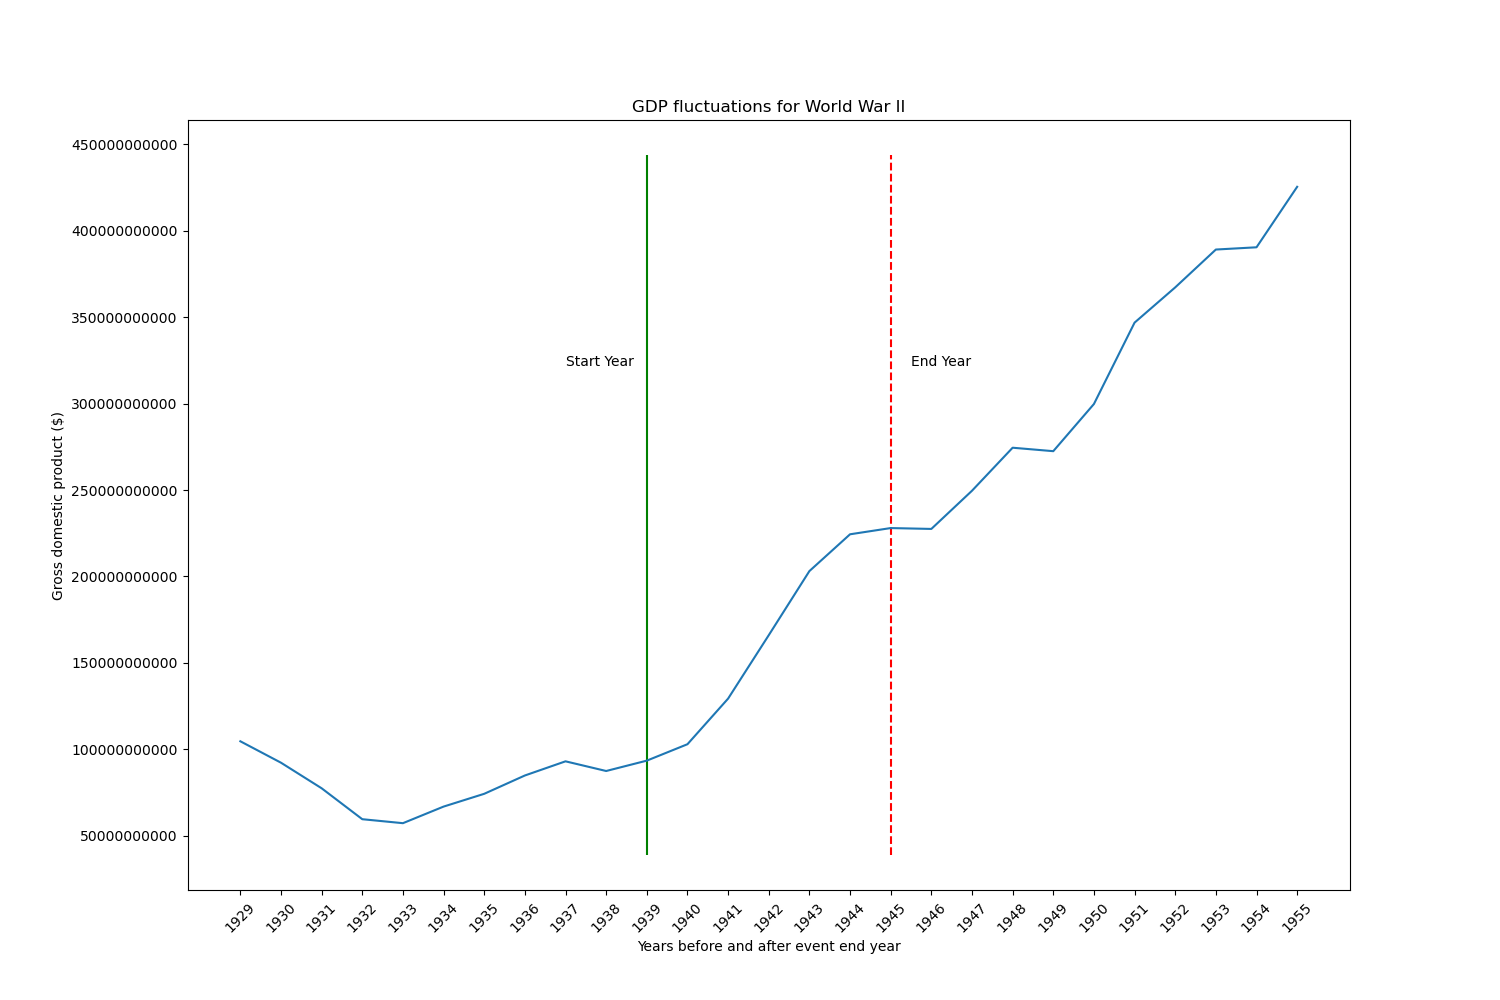
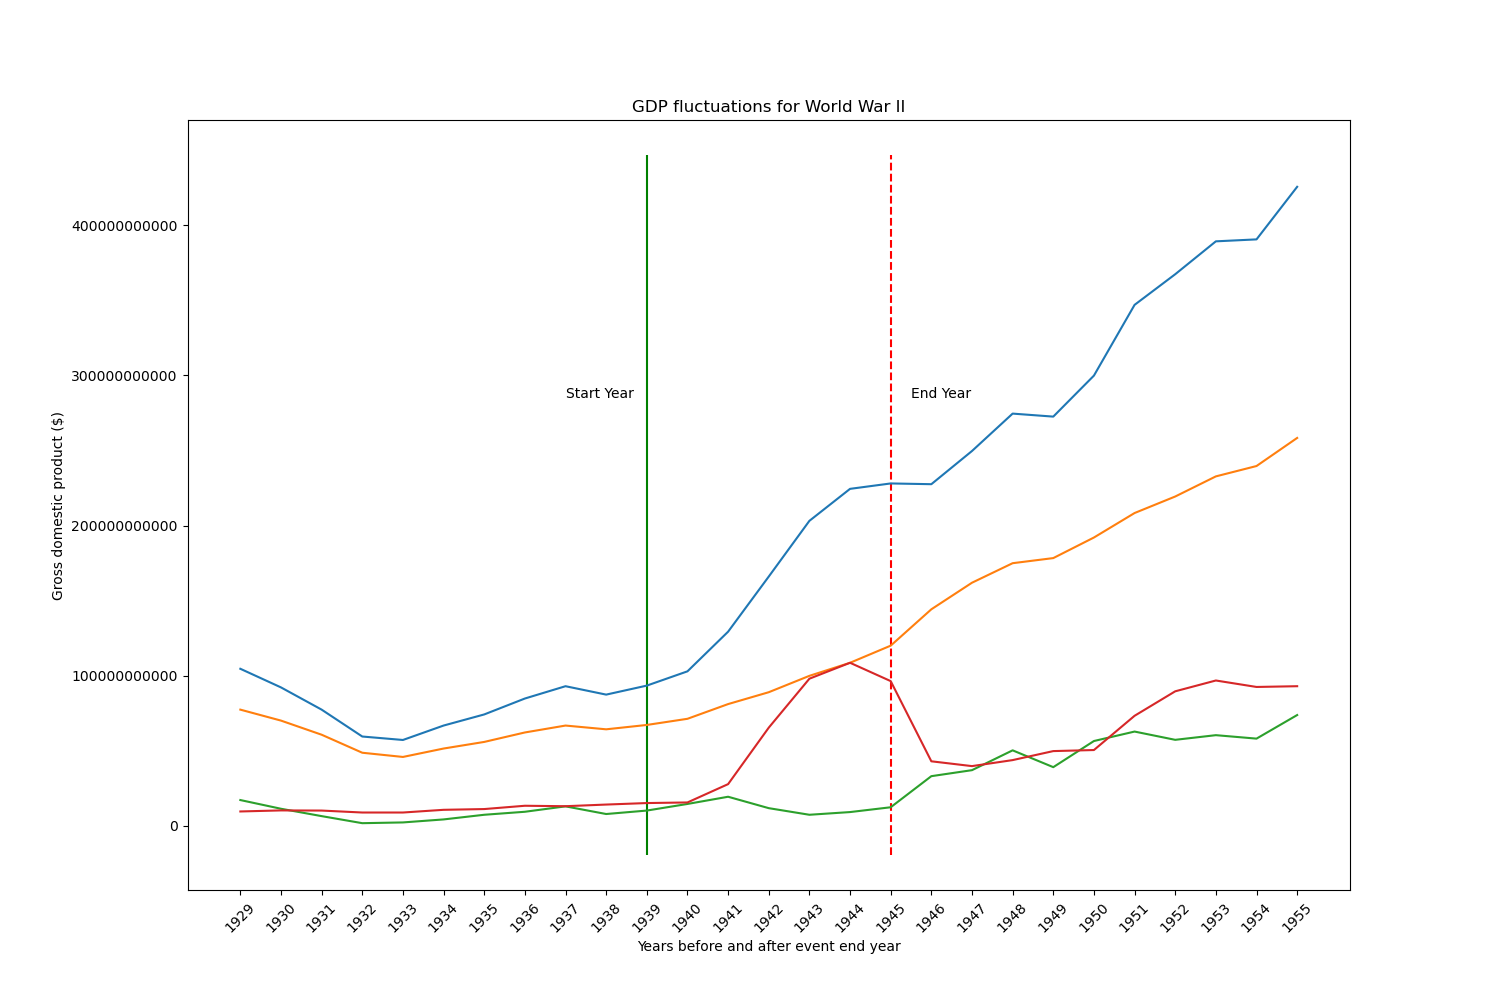
add subcategories in gdp plots

diff --git a/final_project.py b/final_project.py
@@ -485,10 +485,11 @@ def get_gdp_info(us_gdp: pd.DataFrame, df: pd.DataFrame):
                 before_event = 1929
 
             # Slice GDP df according to event
-            event_gdp = us_gdp.loc[0, str(before_event): str(after_event)]
-            event_gdp = event_gdp.to_frame()
+            event_gdp = us_gdp.loc[[0, 124, 131, 152], str(before_event): str(after_event)]
             event_gdp = event_gdp.apply(pd.to_numeric)  # convert all columns of DataFrame
+            event_gdp = event_gdp.T
 
+            #print(event_gdp)
             end_interval = end_year - before_event
             start_interval = start_year - before_event
 
@@ -528,6 +529,7 @@ def plot_gdp(gdp_df: pd.DataFrame, event_name: str, end_interval: int, start_int
     plt.title("GDP fluctuations for " + event_name)
     plt.xticks(rotation=45)  # Rotates X-Axis Ticks by 45-degrees
     plt.savefig('Plots/GDP/'+event_name+'.png')
+    plt.legend()
 
 
 def read_us_cpi(filename: str, min_year: Union[int, None] = None, max_year: Union[int, None] = None) -> pd.DataFrame:
